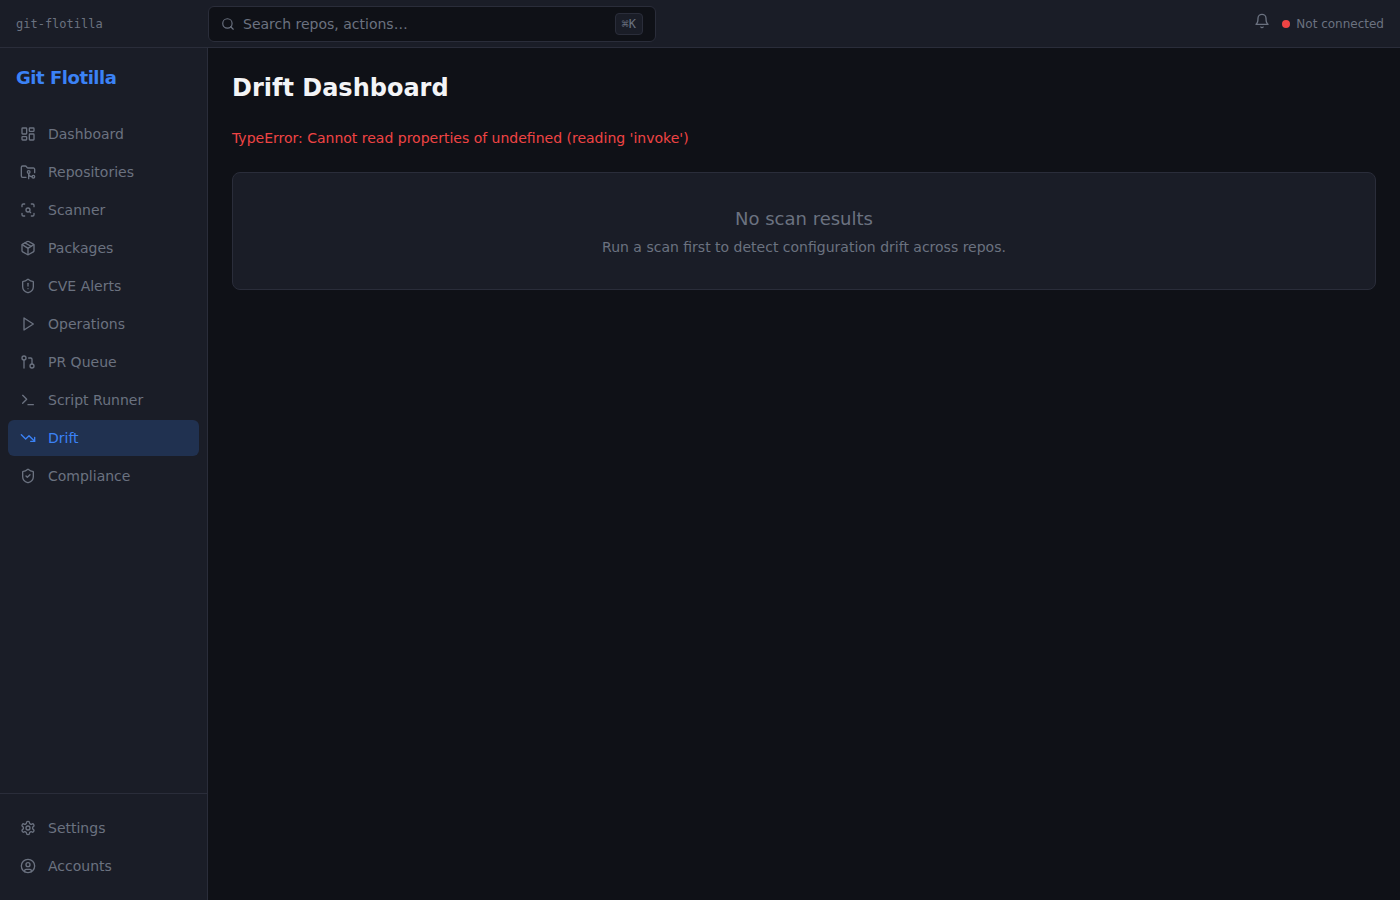
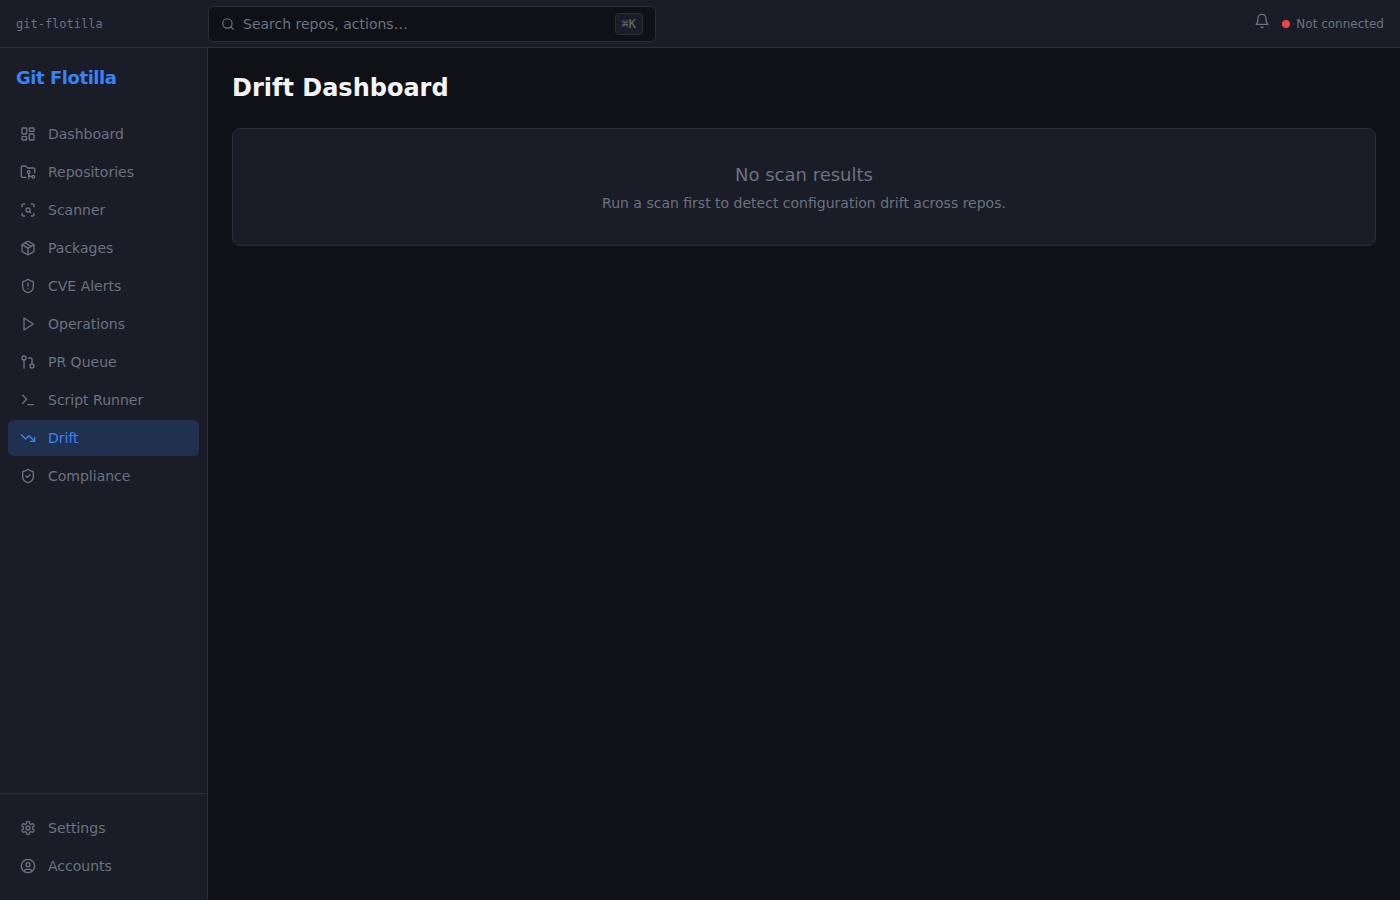
fix(ui): graceful degradation when Tauri backend unavailable
- Add safe invoke wrapper (src/services/tauri.ts) that returns empty
  defaults outside Tauri instead of crashing on missing IPC
- All 10 service modules now import invoke from the safe wrapper
- All 12 views now catch onMounted errors silently
- Packages store validates matrix response shape
- Retake clean screenshots without error banners

Changed region(s): [[0.43, 0.1867, 0.7064, 0.28], [0.1843, 0.1244, 0.4914, 0.1556]]

diff --git a/src/services/tauri.ts b/src/services/tauri.ts
@@ -1,0 +1,48 @@
+/**
+ * Safe wrapper around Tauri's invoke API.
+ *
+ * When running inside the Tauri webview, this delegates to the real `invoke`.
+ * When running in a plain browser (dev server without Tauri, Playwright, etc.),
+ * it throws a descriptive error instead of crashing on missing IPC.
+ *
+ * All service modules should import `invoke` from here instead of
+ * `@tauri-apps/api/core`.
+ */
+
+import { invoke as tauriInvoke } from '@tauri-apps/api/core'
+import { listen as tauriListen, type UnlistenFn } from '@tauri-apps/api/event'
+
+/** True when running inside the Tauri webview runtime. */
+export const isTauri: boolean = Boolean(
+  typeof window !== 'undefined' && (window as unknown as Record<string, unknown>).__TAURI_INTERNALS__,
+)
+
+/**
+ * Call a Tauri command. Returns the command result when inside Tauri.
+ * When outside Tauri (plain browser / Playwright), returns a sensible
+ * empty default so views render their empty states without error banners.
+ */
+export function invoke<T>(cmd: string, args?: Record<string, unknown>): Promise<T> {
+  if (!isTauri) {
+    // Return empty defaults so views show clean empty states
+    // The return type T is typically an array, object, string, or void
+    return Promise.resolve([] as unknown as T)
+  }
+  return tauriInvoke<T>(cmd, args)
+}
+
+export type { UnlistenFn }
+
+/**
+ * Listen for a Tauri event. Returns a no-op unlistener when outside Tauri.
+ */
+export function listen<T>(
+  event: string,
+  handler: (event: { payload: T }) => void,
+): Promise<UnlistenFn> {
+  if (!isTauri) {
+    // Return a no-op unlistener — events can't fire outside Tauri anyway
+    return Promise.resolve(() => {})
+  }
+  return tauriListen<T>(event, handler)
+}

diff --git a/src/views/Settings.vue b/src/views/Settings.vue
@@ -14,11 +14,15 @@ const form = ref({
 })
 
 onMounted(async () => {
-  await Promise.all([
-    store.loadSettings(),
-    store.refreshRateLimit(),
-    store.loadAuditLog(20),
-  ])
+  try {
+    await Promise.all([
+      store.loadSettings(),
+      store.refreshRateLimit(),
+      store.loadAuditLog(20),
+    ])
+  } catch {
+    // errors captured in store
+  }
   // Populate form from loaded settings
   if (store.settings.scan_interval) form.value.scan_interval = store.settings.scan_interval
   if (store.settings.inter_request_delay_ms) form.value.inter_request_delay_ms = store.settings.inter_request_delay_ms

diff --git a/src/views/RepoLists.vue b/src/views/RepoLists.vue
@@ -21,7 +21,11 @@ const showExport     = ref(false)
 const actionError    = ref<string | null>(null)
 
 onMounted(async () => {
-  await Promise.all([reposStore.loadRepos(), listsStore.loadLists()])
+  try {
+    await Promise.all([reposStore.loadRepos(), listsStore.loadLists()])
+  } catch {
+    // errors captured in store
+  }
 })
 
 // ── Discover ─────────────────────────────────────────────────────────────

diff --git a/src/views/Dashboard.vue b/src/views/Dashboard.vue
@@ -13,14 +13,16 @@ const operationsStore = useOperationsStore()
 const settingsStore = useSettingsStore()
 
 onMounted(() => {
-  void Promise.all([
+  Promise.all([
     reposStore.loadRepos(),
     scansStore.loadResults(),
     cveStore.loadAlerts(),
     operationsStore.loadOperations(),
     settingsStore.loadAuditLog(10),
     settingsStore.refreshRateLimit(),
-  ])
+  ]).catch(() => {
+    // errors captured in store
+  })
 })
 
 function formatTimestamp(ts: unknown): string {

diff --git a/src/stores/packages.ts b/src/stores/packages.ts
@@ -44,7 +44,8 @@ export const usePackagesStore = defineStore('packages', () => {
     isLoading.value = true
     error.value = null
     try {
-      matrix.value = await getDependencyMatrix(repoListId, ecosystem)
+      const result = await getDependencyMatrix(repoListId, ecosystem)
+      matrix.value = result && typeof result === 'object' && 'packages' in result ? result : null
     } catch (e) {
       error.value = String(e)
       throw e

diff --git a/src/views/Auth.vue b/src/views/Auth.vue
@@ -8,7 +8,7 @@ import Input from '@/components/ui/Input.vue'
 
 const authStore = useAuthStore()
 
-onMounted(() => authStore.loadAccounts())
+onMounted(() => { authStore.loadAccounts().catch(() => {}) })
 
 // ── Add account form ─────────────────────────────────────────────────────
 const provider  = ref<'github' | 'gitlab'>('github')

diff --git a/src/services/operations.ts b/src/services/operations.ts
@@ -1,5 +1,5 @@
-import { invoke } from '@tauri-apps/api/core'
-import { listen, type UnlistenFn } from '@tauri-apps/api/event'
+import { invoke } from './tauri'
+import { listen, type UnlistenFn } from './tauri'
 import type { BatchOperation, CreateOperationInput, ValidateResult } from '@/types/operation'
 
 export interface OperationProgressEvent {

diff --git a/src/services/scan.ts b/src/services/scan.ts
@@ -1,5 +1,5 @@
-import { invoke } from '@tauri-apps/api/core'
-import { listen, type UnlistenFn } from '@tauri-apps/api/event'
+import { invoke } from './tauri'
+import { listen, type UnlistenFn } from './tauri'
 import type { ScanResult, ScanProgressEvent } from '@/types/scan'
 
 export function scanRepo(repoId: string): Promise<ScanResult> {

diff --git a/src/stores/operations.ts b/src/stores/operations.ts
@@ -11,7 +11,7 @@ import {
   rollbackOperation,
   onOperationProgress,
 } from '@/services/operations'
-import type { UnlistenFn } from '@tauri-apps/api/event'
+import type { UnlistenFn } from '@/services/tauri'
 
 export const useOperationsStore = defineStore('operations', () => {
   const operations = ref<BatchOperation[]>([])

diff --git a/src/stores/scans.ts b/src/stores/scans.ts
@@ -1,7 +1,7 @@
 import { defineStore } from 'pinia'
 import { ref, computed } from 'vue'
 import type { ScanResult, ScanProgressEvent, BatchScanSummary } from '@/types/scan'
-import type { UnlistenFn } from '@tauri-apps/api/event'
+import type { UnlistenFn } from '@/services/tauri'
 import {
   scanRepo,
   scanRepoList,

diff --git a/src/services/compliance.ts b/src/services/compliance.ts
@@ -1,4 +1,4 @@
-import { invoke } from '@tauri-apps/api/core'
+import { invoke } from './tauri'
 import type { SecretFinding, LicenceFinding, BranchProtectionStatus } from '@/types/compliance'
 
 export function scanSecrets(repoIds: string[]): Promise<SecretFinding[]> {

diff --git a/src/views/ScriptRunner.vue b/src/views/ScriptRunner.vue
@@ -25,8 +25,8 @@ const canRun = computed(() => {
 })
 
 onMounted(() => {
-  void scriptsStore.loadPresets()
-  void reposStore.loadRepos()
+  scriptsStore.loadPresets().catch(() => {})
+  reposStore.loadRepos().catch(() => {})
 })
 
 function onPresetChange() {
